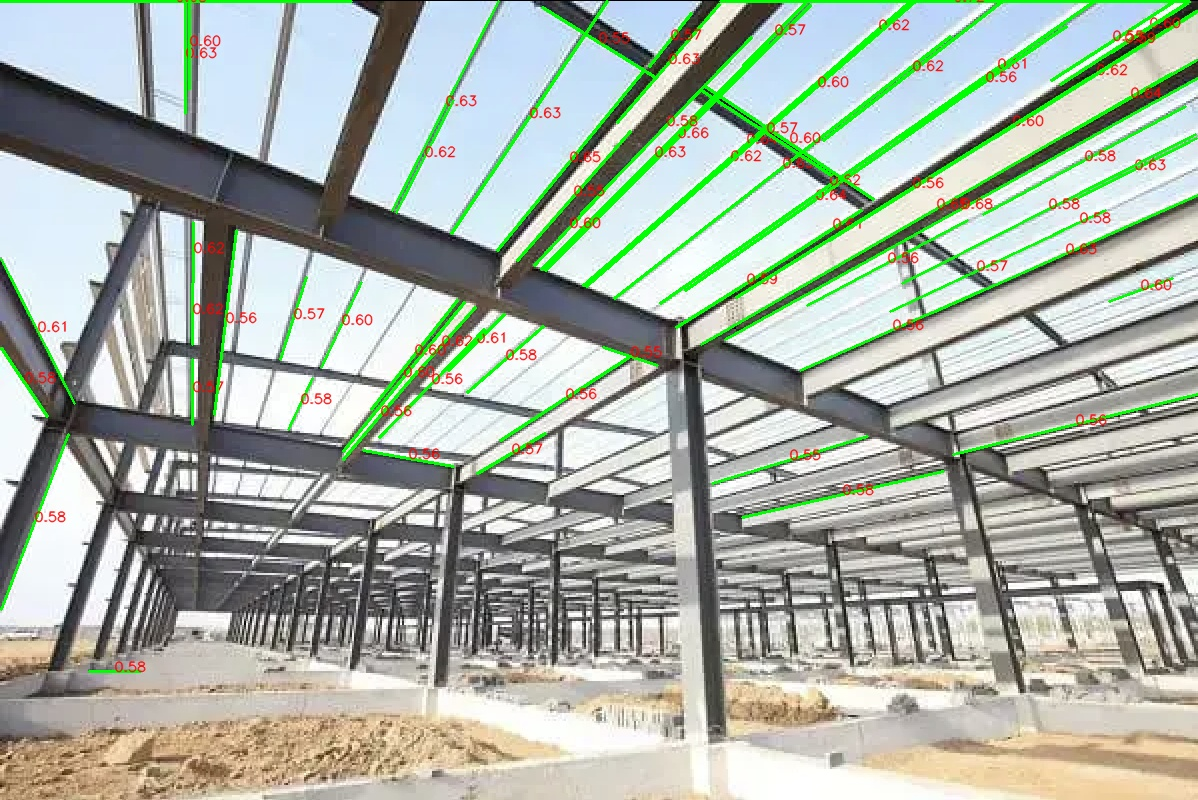
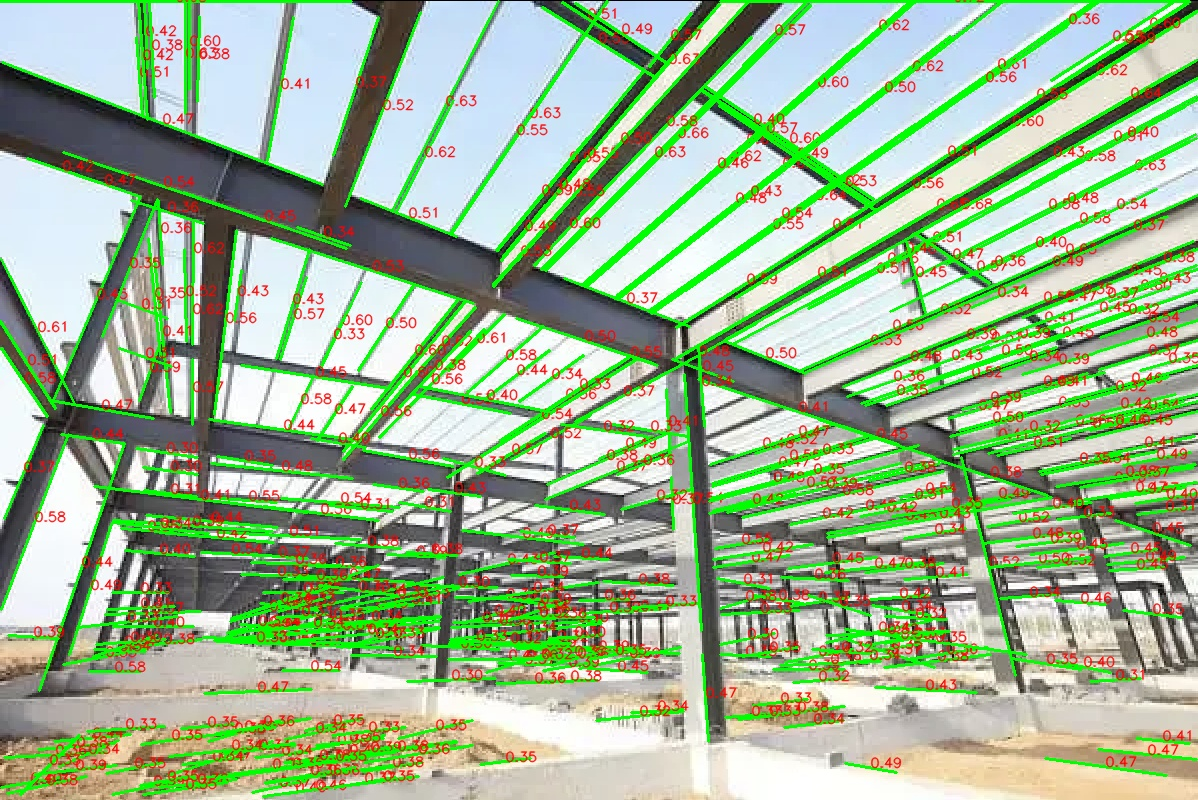
commit final

diff --git a/hough_line.py b/hough_line.py
@@ -24,7 +24,7 @@ HOUGH_MIN_LINE_LENGTH = 50
 HOUGH_MAX_LINE_GAP = 10
 
 # confiança mínima para aceitar a linha
-CONFIANCA_MINIMA = 0.50
+CONFIANCA_MINIMA = 0.30
 
 
 def limitar(valor, minimo=0.0, maximo=1.0):
